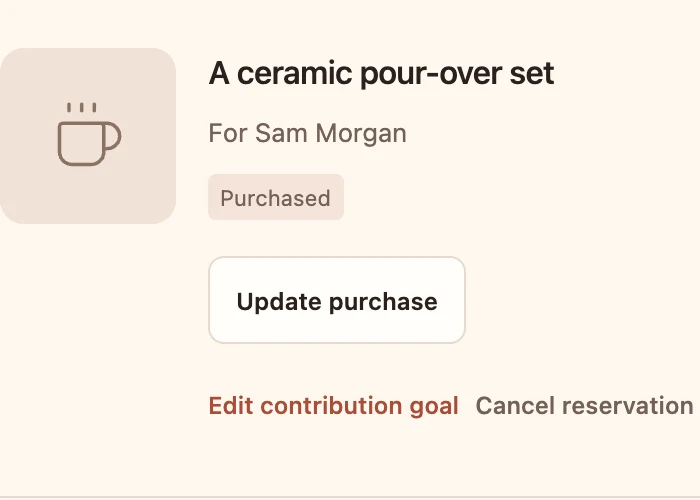
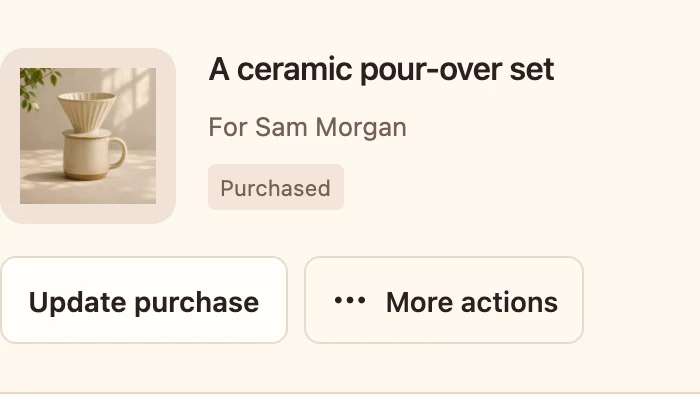
feat: refresh landing page for year-round gift planning (#153)
The landing page still described the earlier wish-list and exchange
experience. Refresh its copy to explain year-round gift planning,
private ideas before someone joins, and optional spending and budgets,
while keeping surprise protection prominent and preserving the existing
visual identity and two feature sections.

Refresh all seven real-app captures with original unbranded demo product
photos, update the social preview and metadata, and improve
secondary-button hover contrast. Repair isolated capture fixtures for
current exchange permissions and Buying tabs, reject unexpected
requests, and document photo provenance. Complete the Impeccable
document refresh before committing, including marketing design tokens
and both metadata sidecars.

Validation:
- `npm run marketing:capture` and `npm run marketing:social`
- `npm run marketing:check` and `npm run marketing:test`
- `npm run typecheck` and `git diff --check`
- Responsive checks at 1440, 768, 390, and 320px, including
accessibility, assets, anchors, keyboard entry, and no-JavaScript
behavior
- Visual review of desktop/mobile captures and social preview

Application behavior, APIs, and database schemas are unchanged.
Marketing remains a static GitHub Pages site; this PR does not deploy
it.

diff --git a/scripts/capture-marketing.ts b/scripts/capture-marketing.ts
@@ -1,8 +1,9 @@
 /** Real app UI, isolated demonstration records. Never connects to a database. */
-import { mkdir, writeFile } from "node:fs/promises";
+import { mkdir, readFile, writeFile } from "node:fs/promises";
 import { existsSync } from "node:fs";
 import assert from "node:assert/strict";
-import { chromium } from "@playwright/test";
+import { spendingView } from "../src/server/spending";
+import { chromium, expect } from "@playwright/test";
 import { createServer } from "vite";
 import sharp from "sharp";
 import { emptyState, type Actor, type List } from "../src/shared/model";
@@ -32,7 +33,7 @@ state.people.push(...people);
 const group = {
   ...stamp(),
   name: "Our favorite people",
-  ownerId: actors[0].id,
+  ownerId: actors[1].id,
   memberIds: actors.map((a) => a.id),
 };
 state.groups.push(group);
@@ -95,10 +96,19 @@ const gifts = [
     tags: ["Coffee"],
   },
 ];
+gifts.forEach((gift, index) =>
+  state.media.push({
+    ...stamp(),
+    id: `marketing-${index}`,
+    userId: actors[gift.person].id,
+    file: `gift-${index}.webp`,
+  }),
+);
 const items = gifts.map(
-  ({ person, ...gift }) =>
+  ({ person, ...gift }, index) =>
     command(state, actors[person], "items.create", {
       ...gift,
+      image: `/api/v1/media/marketing-${index}`,
       listId: lists[person].id,
       quantity: 1,
     }) as { id: string },
@@ -141,6 +151,15 @@ drawn.assignments = people.map((p, i) => [
   p.id,
   people[(i + 1) % people.length].id,
 ]);
+command(state, actors[0], "gift-preferences.update", {
+  personId: people[0].id,
+  categoryIds: [],
+  interests: "Coffee and weekend walks",
+  likes: "",
+  avoid: "",
+  groupIds: [],
+  setup: "done",
+});
 const demo = world(state, actors[0]);
 assert.equal(demo.exchanges[0].myAssignments.length, 1);
 assert.ok(
@@ -173,24 +192,52 @@ try {
     localStorage.setItem("little-hint:theme", "light");
     localStorage.setItem("little-hint:install", "never");
   });
-  // All API reads are local projections; unknown requests fail closed.
-  await context.route("**/api/**", (route) =>
-    route.request().url().endsWith("/api/v1/world")
-      ? route.fulfill({ json: demo })
-      : route.fulfill({
-          status: 404,
-          json: { error: "Not available in screenshot capture" },
-        }),
-  );
-  const page = await context.newPage();
   const errors: string[] = [];
+  // Only local assets and explicit in-memory API projections are permitted.
+  await context.route("**/*", async (route) => {
+    const url = new URL(route.request().url());
+    if (url.origin !== new URL(origin).origin) {
+      errors.push(`Unexpected external request: ${url.origin}${url.pathname}`);
+      return route.abort();
+    }
+    if (!url.pathname.startsWith("/api/")) return route.continue();
+    if (url.pathname === "/api/v1/world") return route.fulfill({ json: demo });
+    if (url.pathname === "/api/v1/spending")
+      return route.fulfill({ json: spendingView(state, actors[0]) });
+    if (
+      ["/api/v1/buying/contributions", "/api/v1/buying/cancelled"].includes(
+        url.pathname,
+      )
+    )
+      return route.fulfill({ json: { rows: [], nextCursor: null } });
+    const photo = url.pathname.match(/^\/api\/v1\/media\/marketing-([0-5])$/);
+    if (photo)
+      return route.fulfill({
+        contentType: "image/webp",
+        body: await readFile(
+          `scripts/fixtures/marketing/gift-${photo[1]}.webp`,
+        ),
+      });
+    errors.push(`Unexpected API request: ${url.pathname}`);
+    return route.fulfill({
+      status: 404,
+      json: { error: "Not available in screenshot capture" },
+    });
+  });
+  const page = await context.newPage();
   page.on("pageerror", (e) => errors.push(e.message));
   async function visit(path: string) {
     await page.goto(new URL(path, origin).href);
     await page.locator("main h1").waitFor();
     await page.evaluate(() => document.fonts.ready);
+    await page.waitForLoadState("networkidle");
   }
   async function save(name: string, selector?: string) {
+    await page.waitForFunction(() =>
+      [...document.images]
+        .filter((img) => img.getBoundingClientRect().top < innerHeight)
+        .every((img) => img.complete && img.naturalWidth > 0),
+    );
     const buffer = selector
       ? await page.locator(selector).screenshot()
       : await page.screenshot();
@@ -210,11 +257,25 @@ try {
   await save("home-mobile");
   await page.setViewportSize({ width: 720, height: 820 });
   await visit("/buying");
+  await page.getByRole("button", { name: /^Purchased \(/ }).click();
+  await expect(page.locator(".buying-row").first()).toContainText(
+    "A ceramic pour-over set",
+  );
+  await expect(
+    page.locator(".buying-row").first().locator("img"),
+  ).toBeVisible();
   await save("buying", ".buying-list");
   await visit("/exchanges");
   await save("exchange", ".exchange-panel");
   await page.setViewportSize({ width: 390, height: 844 });
   await visit("/buying");
+  await page.getByRole("button", { name: /^Purchased \(/ }).click();
+  await expect(page.locator(".buying-row").first()).toContainText(
+    "A ceramic pour-over set",
+  );
+  await expect(
+    page.locator(".buying-row").first().locator("img"),
+  ).toBeVisible();
   await save("buying-mobile", ".buying-list");
   await save("buying-detail", ".buying-row:first-child");
   await visit("/exchanges");
@@ -227,6 +288,8 @@ try {
         source: "Unmodified React app rendered by Playwright",
         data: "Isolated example.test fixtures using domain commands and world projection; no database",
         command: "npm run marketing:capture",
+        photos:
+          "Original AI-generated unbranded demo products; local sources and prompts in scripts/fixtures/marketing",
         screenshots: [
           "home-desktop.webp",
           "home-mobile.webp",

diff --git a/marketing/index.html b/marketing/index.html
@@ -7,14 +7,14 @@
     <title>Little Hint · Gift ideas, shared thoughtfully.</title>
     <meta
       name="description"
-      content="Save what you would love, share wish lists, and plan gifts with friends and family. Host your own Little Hint app and invite your people."
+      content="Self-hosted gift planning for friends and family. Save wishes, collect private ideas, and coordinate gifts without spoiling the surprise."
     />
     <link rel="canonical" href="https://littlehint.affoldercreative.com/" />
     <meta property="og:type" content="website" />
     <meta property="og:title" content="Little Hint · Go ahead. Drop a hint." />
     <meta
       property="og:description"
-      content="Save what you would love. Take a hint from your people. Share wish lists and plan gifts together."
+      content="Save wishes, collect private ideas, and keep gift plans organized all year. Host your own Little Hint app."
     />
     <meta
       property="og:url"
@@ -28,7 +28,7 @@
     <meta property="og:image:height" content="630" />
     <meta
       property="og:image:alt"
-      content="Little Hint. Go ahead. Drop a hint. Share wish lists and plan gifts together."
+      content="Little Hint. Go ahead. Drop a hint. Save wishes, collect ideas, and plan gifts all year."
     />
     <meta name="twitter:card" content="summary_large_image" />
     <link rel="icon" type="image/svg+xml" href="assets/brand/favicon.svg" />
@@ -70,6 +70,9 @@
           d="M3 8h18v4H3zM5 12v9h14v-9M12 8v13M12 8H7.5A2.5 2.5 0 1 1 10 5.5L12 8Zm0 0h4.5A2.5 2.5 0 1 0 14 5.5L12 8Z"
         />
       </symbol>
+      <symbol id="wallet" viewBox="0 0 24 24">
+        <path d="M20 8V5H5a2 2 0 0 0 0 4h16v11H5a2 2 0 0 1-2-2V7m18 6h-5v4h5" />
+      </symbol>
       <symbol id="phone" viewBox="0 0 24 24">
         <rect x="6" y="2" width="12" height="20" rx="2" />
         <path d="M11 18h2" />
@@ -107,8 +110,12 @@
           Drop a hint.
         </h1>
         <p class="hero-description">
-          Save what you would love, take a hint from your people, and plan gifts
-          together.
+          Save your wishes, collect ideas for your people, and keep gift plans
+          organized all year.
+        </p>
+        <p class="hero-support">
+          Save private gift ideas for someone even if they haven't joined Little
+          Hint.
         </p>
         <p class="hero-note">Host it yourself. Invite your people.</p>
         <div class="actions">
@@ -162,7 +169,7 @@
                 <img
                   src="assets/screens/buying-detail.webp"
                   width="700"
-                  height="492"
+                  height="396"
                   loading="lazy"
                   alt="The Buying view shows a pour-over set for Sam marked Purchased."
                 />
@@ -170,9 +177,8 @@
               <div class="feature-copy">
                 <h3>Keep the surprise.</h3>
                 <p>
-                  Reserve a gift so others know it is covered. Choose Keep it a
-                  surprise to hide buying plans from the recipient. Decide
-                  before sharing whether to reveal a gift summary later.
+                  Reserve gifts so other givers know what's covered. On surprise
+                  lists, buying plans stay hidden from the recipient.
                 </p>
               </div>
             </article>
@@ -181,7 +187,7 @@
                 <img
                   src="assets/screens/exchange-mobile.webp"
                   width="700"
-                  height="608"
+                  height="616"
                   loading="lazy"
                   alt="A secret gift exchange shows Alex who they drew: Sam."
                 />
@@ -189,7 +195,8 @@
               <div class="feature-copy">
                 <h3>Give together.</h3>
                 <p>
-                  Draw names for a secret exchange, or chip in on a shared gift.
+                  Organize gifts for birthdays and holidays, draw names for a
+                  secret exchange, or chip in on a shared gift.
                 </p>
                 <p class="contribution-note">
                   Keep track of contributions here. Send money separately.
@@ -210,8 +217,8 @@
           Private gift ideas
         </li>
         <li>
-          <svg class="icon" aria-hidden="true"><use href="#gift" /></svg> Secret
-          exchanges
+          <svg class="icon" aria-hidden="true"><use href="#wallet" /></svg>
+          Optional spending &amp; budgets
         </li>
         <li>
           <svg class="icon" aria-hidden="true"><use href="#phone" /></svg>
@@ -226,8 +233,8 @@
       >
         <h2 id="self-host-title">Your own Little Hint</h2>
         <p class="section-description">
-          Set up a private Little Hint app, invite your people, and start
-          sharing wish lists.
+          Set up a private Little Hint app for your gift ideas and plans. Invite
+          your people when you're ready.
         </p>
         <p class="hosting-detail">
           Free to self-host for personal use. You provide the server and email

diff --git a/marketing/style.css b/marketing/style.css
@@ -149,6 +149,12 @@ p {
   font-size: 20px;
   line-height: 1.55;
 }
+.hero-support {
+  margin: 10px auto 0;
+  max-width: 65ch;
+  font-size: 15px;
+  color: var(--muted);
+}
 .hero-note {
   margin-top: 17px;
   color: var(--muted);
@@ -188,6 +194,7 @@ p {
   border-color: var(--accent);
 }
 .button.secondary:hover {
+  color: var(--accent-hover);
   background: var(--blush);
 }
 .product-preview {

diff --git a/marketing/DESIGN.md b/marketing/DESIGN.md
@@ -47,6 +47,8 @@ typography:
     fontSize: "clamp(36px, 9.7vw, 54px)"
   hero-description:
     fontSize: "20px"
+  hero-support:
+    fontSize: "15px"
   hero-description-phone:
     fontSize: "17px"
   section-description:
@@ -95,6 +97,7 @@ components:
     padding: "13px 22px"
   button-secondary-hover:
     backgroundColor: "{colors.blush}"
+    textColor: "{colors.accent-hover}"
   screen-detail:
     backgroundColor: "{colors.bg}"
     rounded: "{rounded.screen-detail}"
@@ -151,7 +154,7 @@ Component and responsive roles in frontmatter describe the existing page. The si
 
 Fraunces, with Georgia and serif fallbacks, supplies every heading. Heading weight, tight tracking, balanced wrapping, and the `SOFT` 65 / `WONK` 1 variable settings remain consistent. The body and controls use the platform sans stack. The logo remains artwork rather than recreated type.
 
-Display, headline, and feature title form a descending serif hierarchy. Feature and hosting copy use the body role; notes and captions step down to 12–14px. The hero description uses 20px and 1.55 line height on larger screens, then 17px on phones. Feature paragraphs cap at 52ch, with hosting explanations capped at 60ch.
+Display, headline, and feature title form a descending serif hierarchy. Feature and hosting copy use the body role; notes and captions step down to 12–14px. The hero description uses 20px and 1.55 line height on larger screens, then 17px on phones. The muted hero supporting sentence uses 15px type, a 65ch measure, and a 10px top gap. Feature paragraphs cap at 52ch, with hosting explanations capped at 60ch.
 
 At 600px and below, the hero uses `clamp(36px, 9.7vw, 54px)`, feature titles use 25px, and the self-host heading uses 33px. These are responsive adjustments rather than another type family.
 
@@ -179,7 +182,7 @@ Actions have gently rounded corners using the action radius. Repeated screenshot
 
 ### Buttons
 
-Primary buttons pair sienna backgrounds with paper text. Secondary buttons use sienna text and a one-pixel sienna outline over a transparent background. Both have a 50px minimum height and aligned SVG icons. Primary hover deepens the background; secondary hover fills with blush. Background transitions take 160ms with ease-out and disappear under reduced motion.
+Primary buttons pair sienna backgrounds with paper text. Secondary buttons use sienna text and a one-pixel sienna outline over a transparent background. Both have a 50px minimum height and aligned SVG icons. Primary hover deepens the background; secondary hover fills with blush and deepens the text to the accent-hover color. Background transitions take 160ms with ease-out and disappear under reduced motion.
 
 All links receive a visible sienna focus outline, 3px wide with 5px offset. Inline text links keep an underline and at least 44px height. They use sienna text, with 14px semibold type.
 
@@ -189,7 +192,7 @@ Header navigation uses plain sans text, small SVG icons where needed, and a 44px
 
 ### Screenshot details
 
-Feature captures sit inside flat ivory containers with rounded corners and modest padding. These are real app images, not reconstructed widgets. Preserve the original screenshot proportions, meaningful alt text, and the visible statement that data is illustrative. `marketing/assets/screens/capture.json` records the unmodified React capture source, isolated `example.test` fixtures, and capture command.
+Feature captures sit inside flat ivory containers with rounded corners and modest padding. These are real app images, not reconstructed widgets. Preserve the original screenshot proportions, meaningful alt text, and the visible statement that data is illustrative. `marketing/assets/screens/capture.json` records the unmodified React capture source, isolated `example.test` fixtures, and capture command. Product photos are original unbranded demo assets, with prompts and provenance stored beside the capture fixtures.
 
 ### Capability row
 

diff --git a/scripts/fixtures/marketing/README.md b/scripts/fixtures/marketing/README.md
@@ -1,0 +1,29 @@
+# Marketing product-photo fixtures
+
+Original images generated with the built-in Imagegen tool on November 4, 2026. These depict illustrative, unbranded gifts, not retail products. The capture script serves these local WebP files through fixture media responses. No external image service is contacted.
+
+Each output is resized to 640 × 640 and encoded as WebP at quality 85. The following are the exact generation prompts.
+
+## gift-0.webp
+
+Create one square product photo for an illustrative gift-list app fixture: a cream ceramic pour-over coffee dripper with matching mug. Warm natural window light, soft ivory tabletop, subtle realistic shadow, centered entire object with generous room around it. Tasteful catalog photography, tactile materials, muted earthy colors. No text, brand marks, logos, watermarks, people, UI or borders. Output one image.
+
+## gift-1.webp
+
+Create one square product photo for an illustrative gift-list app fixture: an olive green canvas weekend daypack. Warm natural window light, soft ivory tabletop, subtle realistic shadow, centered entire object with generous room around it. Tasteful catalog photography, tactile materials, muted earthy colors. No text, brand marks, logos, watermarks, people, UI or borders. Output one image.
+
+## gift-2.webp
+
+Create one square product photo for an illustrative gift-list app fixture: a terracotta linen-bound blank journal. Warm natural window light, soft ivory tabletop, subtle realistic shadow, centered entire object with generous room around it. Tasteful catalog photography, tactile materials, muted earthy colors. No text, brand marks, logos, watermarks, people, UI or borders. Output one image.
+
+## gift-3.webp
+
+Create one square product photo for an illustrative gift-list app fixture: a black vinyl record partially tucked into a plain cream sleeve. Warm natural window light, soft ivory tabletop, subtle realistic shadow, centered entire object with generous room around it. Tasteful catalog photography, tactile materials, muted earthy colors. No text, brand marks, logos, watermarks, people, UI or borders. Output one image.
+
+## gift-4.webp
+
+Create one square product photo for an illustrative gift-list app fixture: a closed forest-green trail guide book with no text. Warm natural window light, soft ivory tabletop, subtle realistic shadow, centered entire object with generous room around it. Tasteful catalog photography, tactile materials, muted earthy colors. No text, brand marks, logos, watermarks, people, UI or borders. Output one image.
+
+## gift-5.webp
+
+Create one square product photo for an illustrative gift-list app fixture: a plain kraft bag of roasted coffee beside a small ceramic bowl of beans. Warm natural window light, soft ivory tabletop, subtle realistic shadow, centered entire object with generous room around it. Tasteful catalog photography, tactile materials, muted earthy colors. No text, brand marks, logos, watermarks, people, UI or borders. Output one image.

diff --git a/docs/MARKETING.md b/docs/MARKETING.md
@@ -22,7 +22,7 @@ npm ci
 npm run marketing:capture
 ```
 
-The capture script launches the unmodified React app through Vite and renders it in Playwright. It creates isolated `example.test` records through the application's domain commands, then serves the actual `world()` projection to the browser. It never connects to a database or live account. Recipient privacy and single-viewer exchange assignments are asserted before capture. No UI text, CSS, or DOM is replaced for screenshots. The app's own missing-photo illustrations are intentional: the demo gifts have no product photographs.
+The capture script launches the unmodified React app through Vite and renders it in Playwright. It creates isolated `example.test` records through the application's domain commands, then serves the actual `world()` projection to the browser. It never connects to a database or live account. Recipient privacy and single-viewer exchange assignments are asserted before capture. No UI text, CSS, or DOM is replaced for screenshots. The demo gifts use original, unbranded AI-generated product photos from `scripts/fixtures/marketing/`. That directory records the prompts and provenance. Local media responses supply the photos; external requests and unknown API requests fail capture. The viewer has completed gift preferences and sees an ordinary participant's exchange assignment. Buying captures explicitly select Purchased and assert the intended gift and photo.
 
 The checked-in WebP images include the Home screen on desktop and mobile, and responsive detail captures of Buying and Exchanges. Recapture after material app UI changes, then review all images and update HTML width/height attributes if dimensions change. The generated concept-board images in `design/marketing-concepts/` are not published.
 
